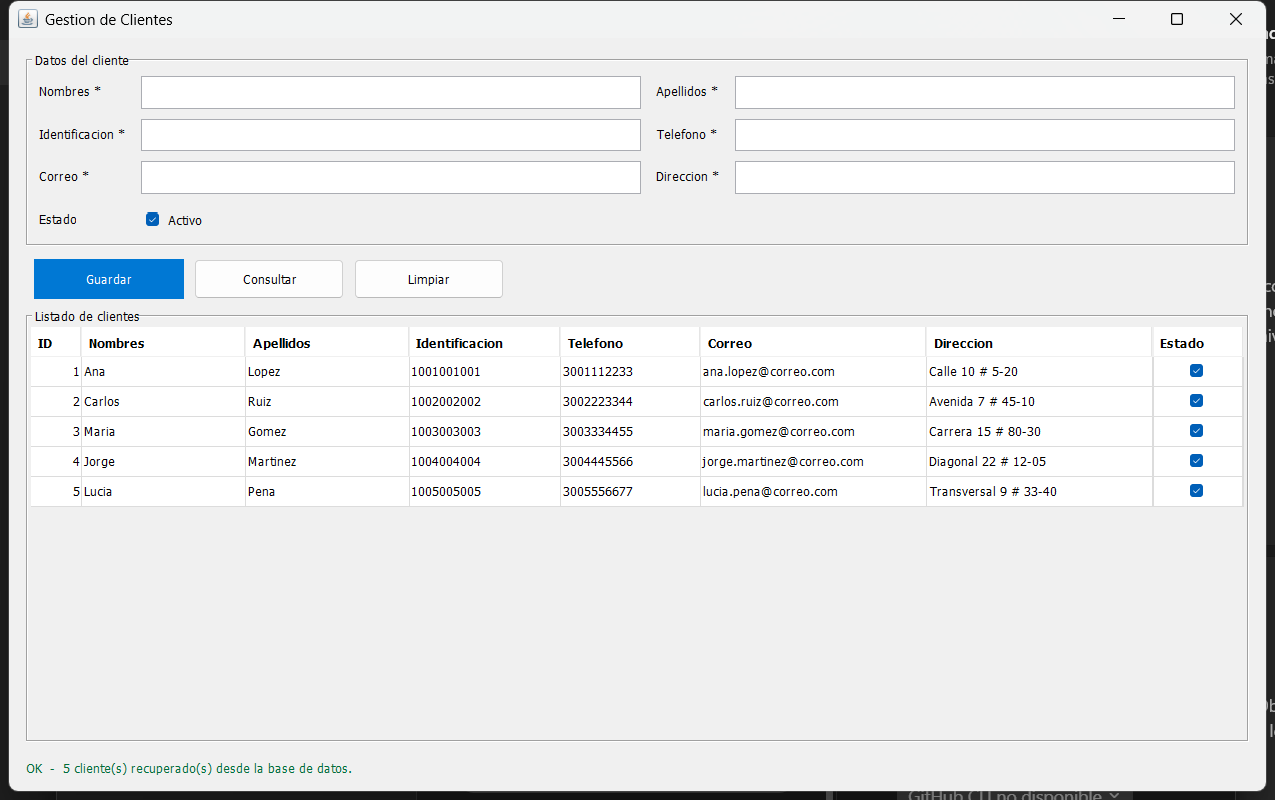
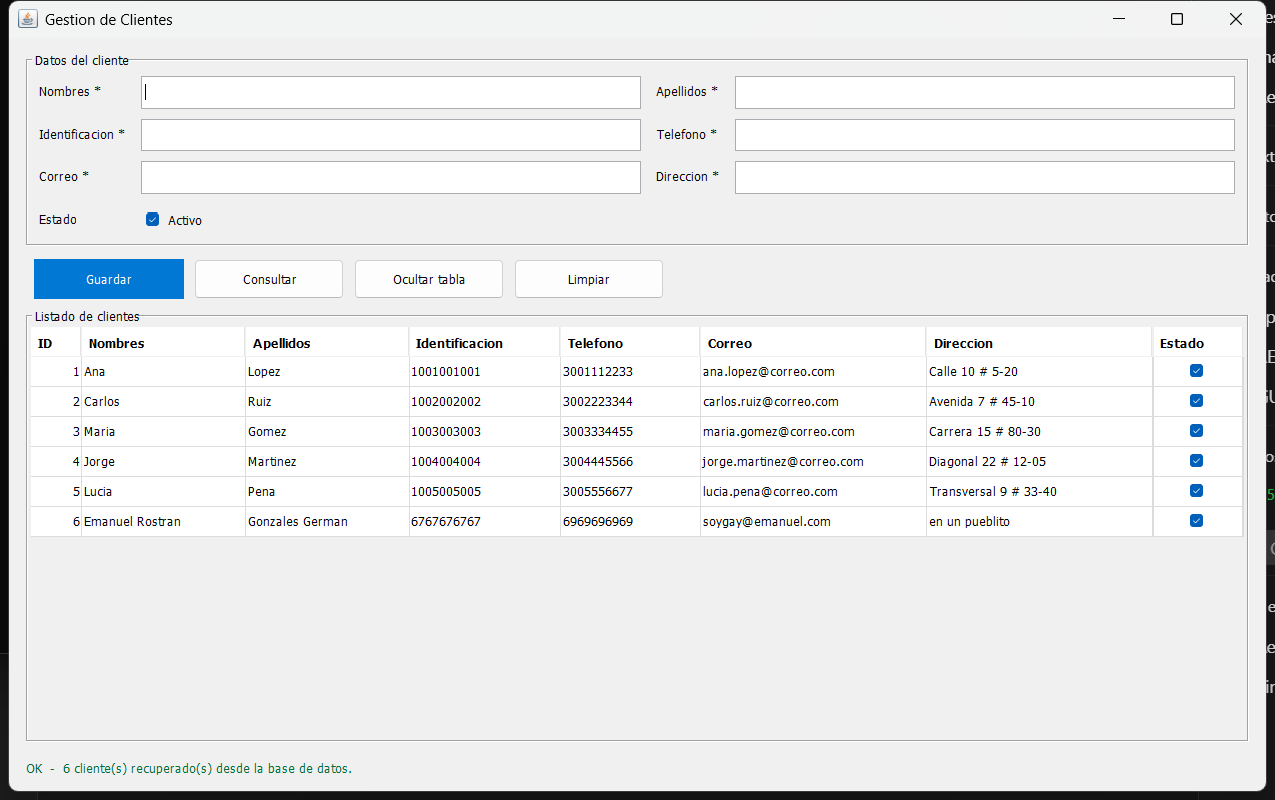
Mostrar el listado solo cuando el usuario lo pide
La grilla ya no se carga al abrir la ventana. La zona central usa un
CardLayout que alterna entre un aviso y la tabla, y un boton nuevo
"Mostrar tabla" la trae desde la base de datos; el mismo boton, ya como
"Ocultar tabla", la esconde. Consultar sigue funcionando igual y tambien
la muestra. Guardar solo refresca la grilla si estaba visible, para no
reabrir lo que el usuario cerro.

- VentanaClientes: boton nuevo, CardLayout, alternarTabla() y mostrarTabla()
- al abrir, la barra de estado informa de la conexion en vez del conteo
- evidencias: captura nueva del estado inicial sin tabla
- README y GUIA-REPLICACION.txt actualizados, incluido el aviso de que en
  PowerShell los .bat necesitan el prefijo .\

diff --git a/app-java/src/gestionclientes/VentanaClientes.java b/app-java/src/gestionclientes/VentanaClientes.java
@@ -1,6 +1,7 @@
 package gestionclientes;
 
 import java.awt.BorderLayout;
+import java.awt.CardLayout;
 import java.awt.Color;
 import java.awt.Dimension;
 import java.awt.FlowLayout;
@@ -46,11 +47,16 @@ public class VentanaClientes extends JFrame {
 
     private final JButton btnGuardar = new JButton("Guardar");
     private final JButton btnConsultar = new JButton("Consultar");
+    private final JButton btnMostrar = new JButton("Mostrar tabla");
     private final JButton btnLimpiar = new JButton("Limpiar");
 
     private final ModeloClientes modelo = new ModeloClientes();
     private final JTable tabla = new JTable(modelo);
     private final JLabel lblEstado = new JLabel();
+
+    /** Zona central: alterna entre el aviso inicial y la grilla. */
+    private final JPanel centro = new JPanel(new CardLayout());
+    private boolean tablaVisible = false;
 
     public VentanaClientes() {
         setTitle("Gestion de Clientes");
@@ -69,18 +75,19 @@ public class VentanaClientes extends JFrame {
         arriba.add(construirPanelBotones());
 
         raiz.add(arriba, BorderLayout.NORTH);
-        raiz.add(construirTabla(), BorderLayout.CENTER);
+        raiz.add(construirCentro(), BorderLayout.CENTER);
         raiz.add(construirBarraEstado(), BorderLayout.SOUTH);
         setContentPane(raiz);
 
         btnGuardar.addActionListener(e -> guardar());
         btnConsultar.addActionListener(e -> consultar());
+        btnMostrar.addActionListener(e -> alternarTabla());
         btnLimpiar.addActionListener(e -> limpiarFormulario());
 
         getRootPane().setDefaultButton(btnGuardar);
 
+        // El listado no se carga al abrir: hay que pedirlo con un boton.
         probarConexionInicial();
-        consultar();
     }
 
     // ---------- Interfaz ----------
@@ -148,7 +155,7 @@ public class VentanaClientes extends JFrame {
     private JPanel construirPanelBotones() {
         JPanel panel = new JPanel(new FlowLayout(FlowLayout.LEFT, 8, 0));
 
-        for (JButton b : new JButton[] { btnGuardar, btnConsultar, btnLimpiar }) {
+        for (JButton b : new JButton[] { btnGuardar, btnConsultar, btnMostrar, btnLimpiar }) {
             b.setPreferredSize(new Dimension(120, 32));
             panel.add(b);
         }
@@ -159,6 +166,25 @@ public class VentanaClientes extends JFrame {
         btnGuardar.setBorderPainted(false);
 
         return panel;
+    }
+
+    /**
+     * Zona central con dos vistas superpuestas: el aviso que se ve al abrir
+     * y la grilla, que solo aparece cuando el usuario la pide.
+     */
+    private JPanel construirCentro() {
+        JLabel aviso = new JLabel(
+                "Pulse \"Mostrar tabla\" o \"Consultar\" para ver los clientes registrados.",
+                SwingConstants.CENTER);
+        aviso.setForeground(Color.GRAY);
+
+        JPanel panelAviso = new JPanel(new BorderLayout());
+        panelAviso.setBorder(BorderFactory.createTitledBorder("Listado de clientes"));
+        panelAviso.add(aviso, BorderLayout.CENTER);
+
+        centro.add(panelAviso, "aviso");
+        centro.add(construirTabla(), "tabla");
+        return centro;
     }
 
     private JScrollPane construirTabla() {
@@ -206,11 +232,28 @@ public class VentanaClientes extends JFrame {
         }
     }
 
+    /** Boton "Mostrar tabla": la muestra cargando los datos, o la oculta. */
+    private void alternarTabla() {
+        if (tablaVisible) {
+            mostrarTabla(false);
+            mensaje("Listado oculto.", true);
+        } else {
+            consultar();
+        }
+    }
+
+    private void mostrarTabla(boolean visible) {
+        tablaVisible = visible;
+        ((CardLayout) centro.getLayout()).show(centro, visible ? "tabla" : "aviso");
+        btnMostrar.setText(visible ? "Ocultar tabla" : "Mostrar tabla");
+    }
+
     private void consultar() {
         try {
             List<Cliente> clientes = repo.consultar();
             modelo.reemplazar(clientes);
             ajustarAnchos();
+            mostrarTabla(true);
             mensaje(clientes.size() + " cliente(s) recuperado(s) desde la base de datos.", true);
         } catch (Exception ex) {
             mensaje("Error al consultar los clientes.", false);
@@ -246,7 +289,12 @@ public class VentanaClientes extends JFrame {
                     "Registro guardado correctamente.\nIdCliente asignado: " + id,
                     "Exito", JOptionPane.INFORMATION_MESSAGE);
             limpiarFormulario();
-            consultar();
+
+            // Solo se refresca si el listado ya estaba a la vista: guardar no
+            // debe abrir una tabla que el usuario decidio mantener oculta.
+            if (tablaVisible) {
+                consultar();
+            }
         } catch (SQLException ex) {
             if (ClientesRepositorio.esDuplicado(ex)) {
                 // Violacion de UNIQUE en Identificacion o Correo
